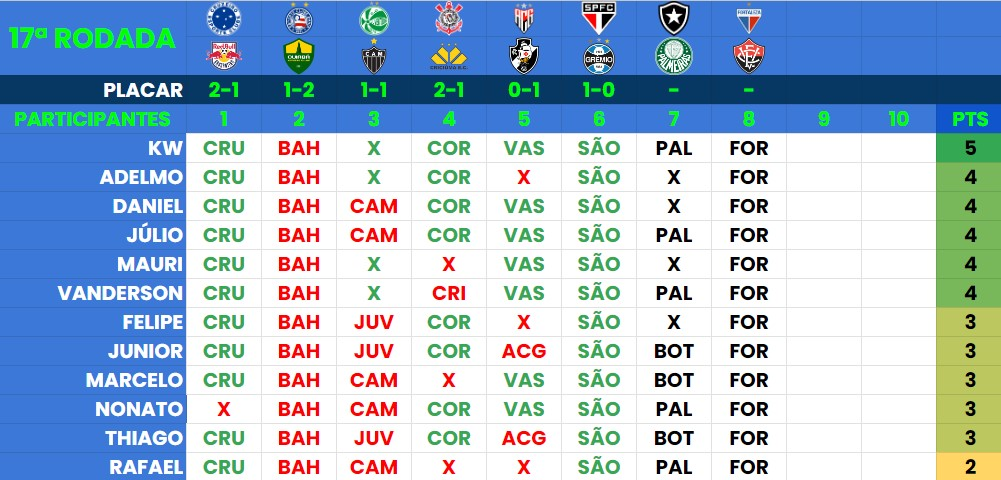
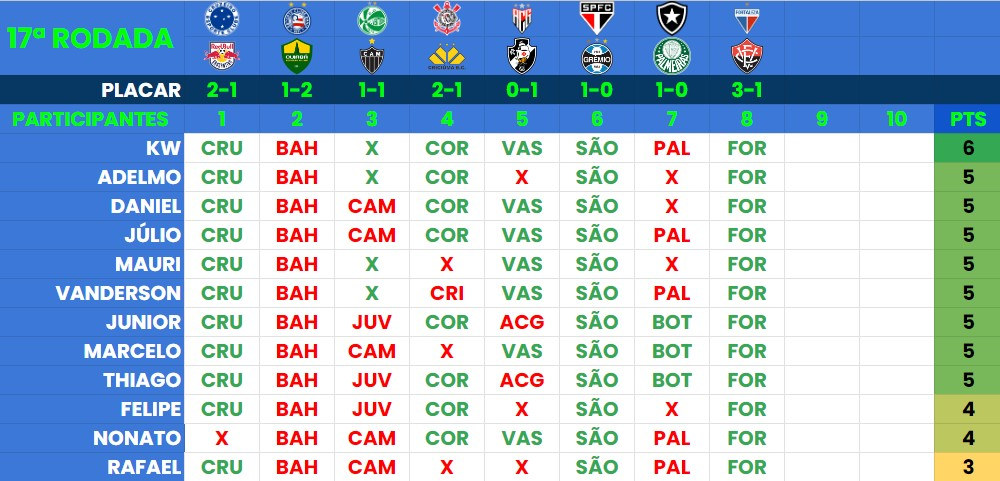
u

diff --git a/index.html b/index.html
@@ -51,10 +51,10 @@
           <img src="./assets/Round17.jpg" alt="Logo do Campeonato Brasileiro 2022" />
         </div>
         <div class="text">
-          <h2 class="title"><a href="./predictor.html">MERCADO FECHADO</a>
+          <h2 class="title"><a href="./predictor.html">KW vence a 17ª Rodada com seis pontos</a>
           </h2>
           <p>
-            A bola tá rolando...
+            Júnior reassume a liderança com 83 pontos
           </p>
           <a class="button" href="./predictor.html">Resumo da 17ª Rodada</a>
         </div>
@@ -177,17 +177,7 @@
           <div class="content">
             <h2 class="rank"><small>#</small>1</h2>
             <h4>Júnior</h4>
-            <p>78 Pontos</p>
-          </div>
-        </div>
-        <div class="list">
-          <div class="imgBx">
-            <img src="./assets/fotos/santacruz.png">
-          </div>
-          <div class="content">
-            <h2 class="rank"><small>#</small>2</h2>
-            <h4>Adelmo</h4>
-            <p>76 Pontos</p>
+            <p>83 Pontos</p>
           </div>
         </div>
         <div class="list">
@@ -195,9 +185,19 @@
             <img src="./assets/fotos/fortaleza.png">
           </div>
           <div class="content">
-            <h2 class="rank"><small>#</small>3</h2>
+            <h2 class="rank"><small>#</small>2</h2>
             <h4>KW</h4>
-            <p>76 Pontos</p>
+            <p>82 Pontos</p>
+          </div>
+        </div>
+        <div class="list">
+          <div class="imgBx">
+            <img src="./assets/fotos/santacruz.png">
+          </div>
+          <div class="content">
+            <h2 class="rank"><small>#</small>3</h2>
+            <h4>Adelmo</h4>
+            <p>81 Pontos</p>
           </div>
         </div>
         <div class="list">
@@ -207,7 +207,7 @@
           <div class="content">
             <h2 class="rank"><small>#</small>4</h2>
             <h4>Thiago</h4>
-            <p>74 Pontos</p>
+            <p>79 Pontos</p>
           </div>
         </div>
         <div class="list">
@@ -217,7 +217,7 @@
           <div class="content">
             <h2 class="rank"><small>#</small>5</h2>
             <h4>Mauri</h4>
-            <p>73 Pontos</p>
+            <p>78 Pontos</p>
           </div>
         </div>
         <div class="list">
@@ -227,7 +227,7 @@
           <div class="content">
             <h2 class="rank"><small>#</small>6</h2>
             <h4>Marcelo</h4>
-            <p>73 Pontos</p>
+            <p>78 Pontos</p>
           </div>
         </div>
         <div class="list">
@@ -237,17 +237,7 @@
           <div class="content">
             <h2 class="rank"><small>#</small>7</h2>
             <h4>Daniel</h4>
-            <p>72 Pontos</p>
-          </div>
-        </div>
-        <div class="list">
-          <div class="imgBx">
-            <img src="./assets/fotos/santos.png">
-          </div>
-          <div class="content">
-            <h2 class="rank"><small>#</small>8</h2>
-            <h4>Felipe</h4>
-            <p>72 Pontos</p>
+            <p>77 Pontos</p>
           </div>
         </div>
         <div class="list">
@@ -255,9 +245,19 @@
             <img src="./assets/fotos/fortaleza.png">
           </div>
           <div class="content">
-            <h2 class="rank"><small>#</small>9</h2>
+            <h2 class="rank"><small>#</small>8</h2>
             <h4>Júlio César</h4>
-            <p>72 Pontos</p>
+            <p>77 Pontos</p>
+          </div>
+        </div>
+        <div class="list">
+          <div class="imgBx">
+            <img src="./assets/fotos/santos.png">
+          </div>
+          <div class="content">
+            <h2 class="rank"><small>#</small>9</h2>
+            <h4>Felipe</h4>
+            <p>76 Pontos</p>
           </div>
         </div>
         <div class="list">
@@ -267,7 +267,7 @@
           <div class="content">
             <h2 class="rank"><small>#</small>10</h2>
             <h4>Nonato</h4>
-            <p>69 Pontos</p>
+            <p>73 Pontos</p>
           </div>
         </div>
         <div class="list">
@@ -277,7 +277,7 @@
           <div class="content">
             <h2 class="rank"><small>#</small>11</h2>
             <h4>Rafael</h4>
-            <p>68 Pontos</p>
+            <p>71 Pontos</p>
           </div>
         </div>
         <div class="list">
@@ -287,7 +287,7 @@
           <div class="content">
             <h2 class="rank"><small>#</small>12</h2>
             <h4>Vanderson</h4>
-            <p>66 Pontos</p>
+            <p>71 Pontos</p>
           </div>
         </div>
       </div>
